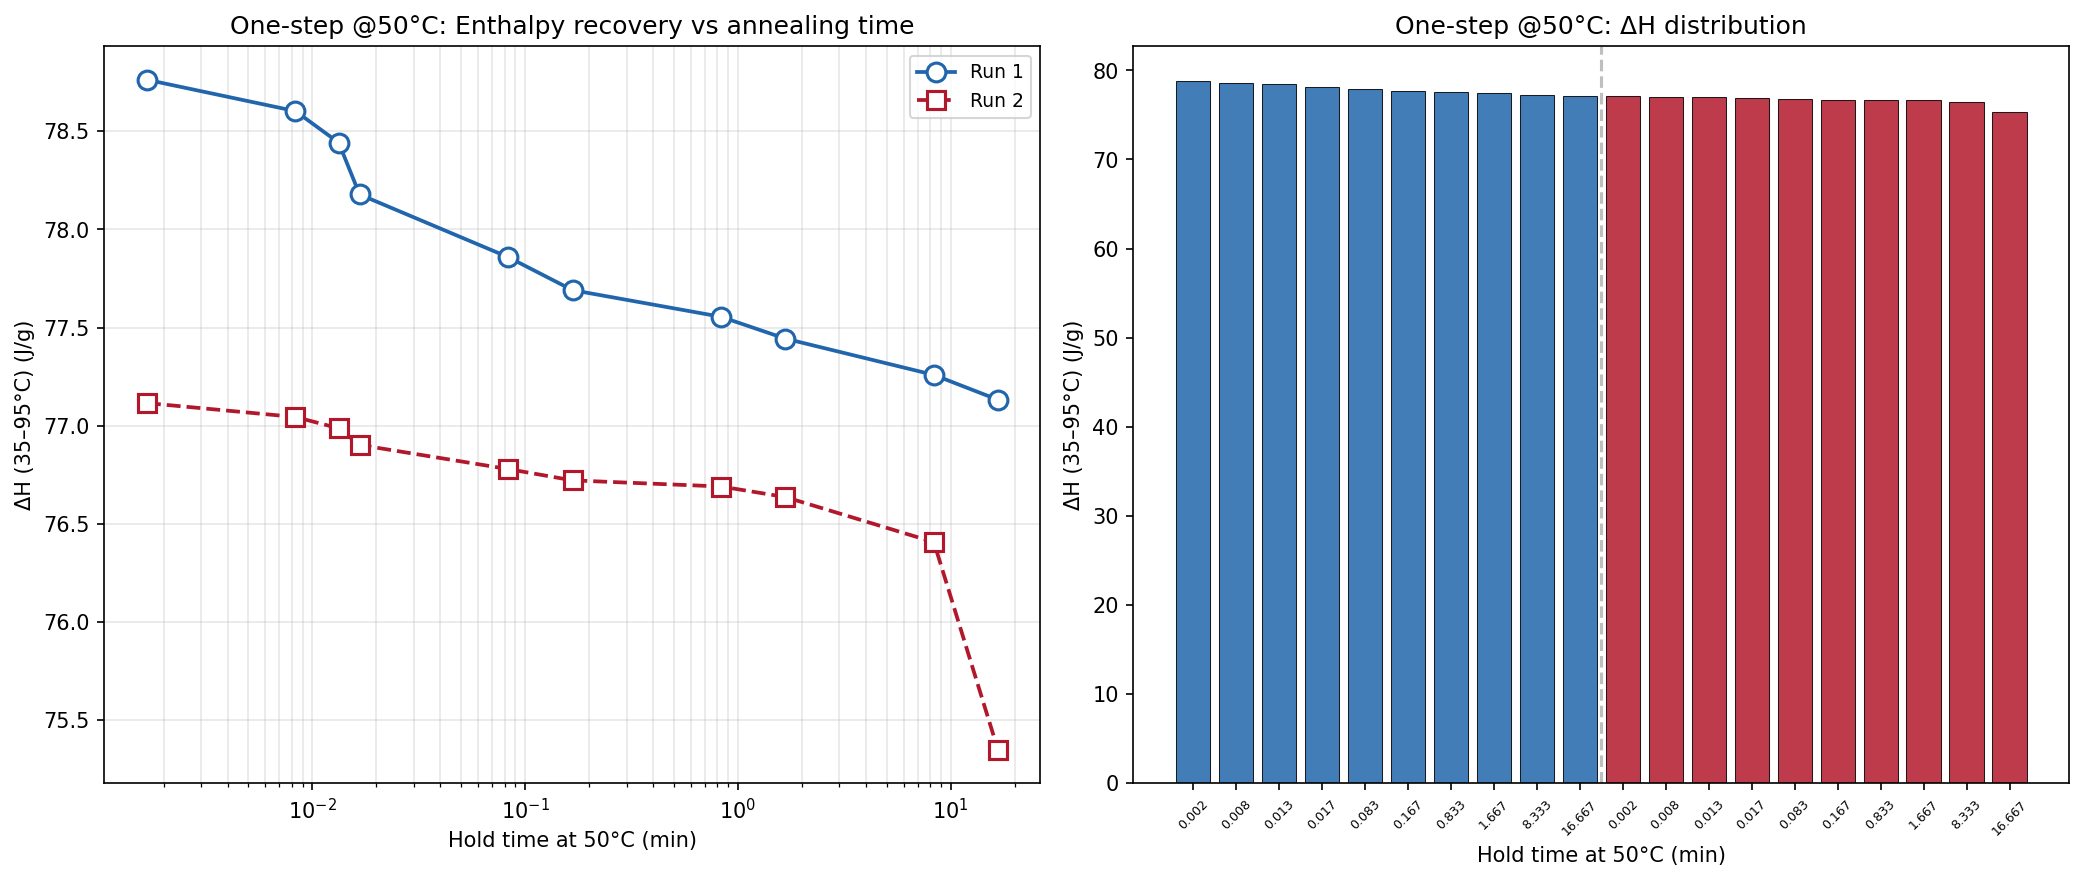
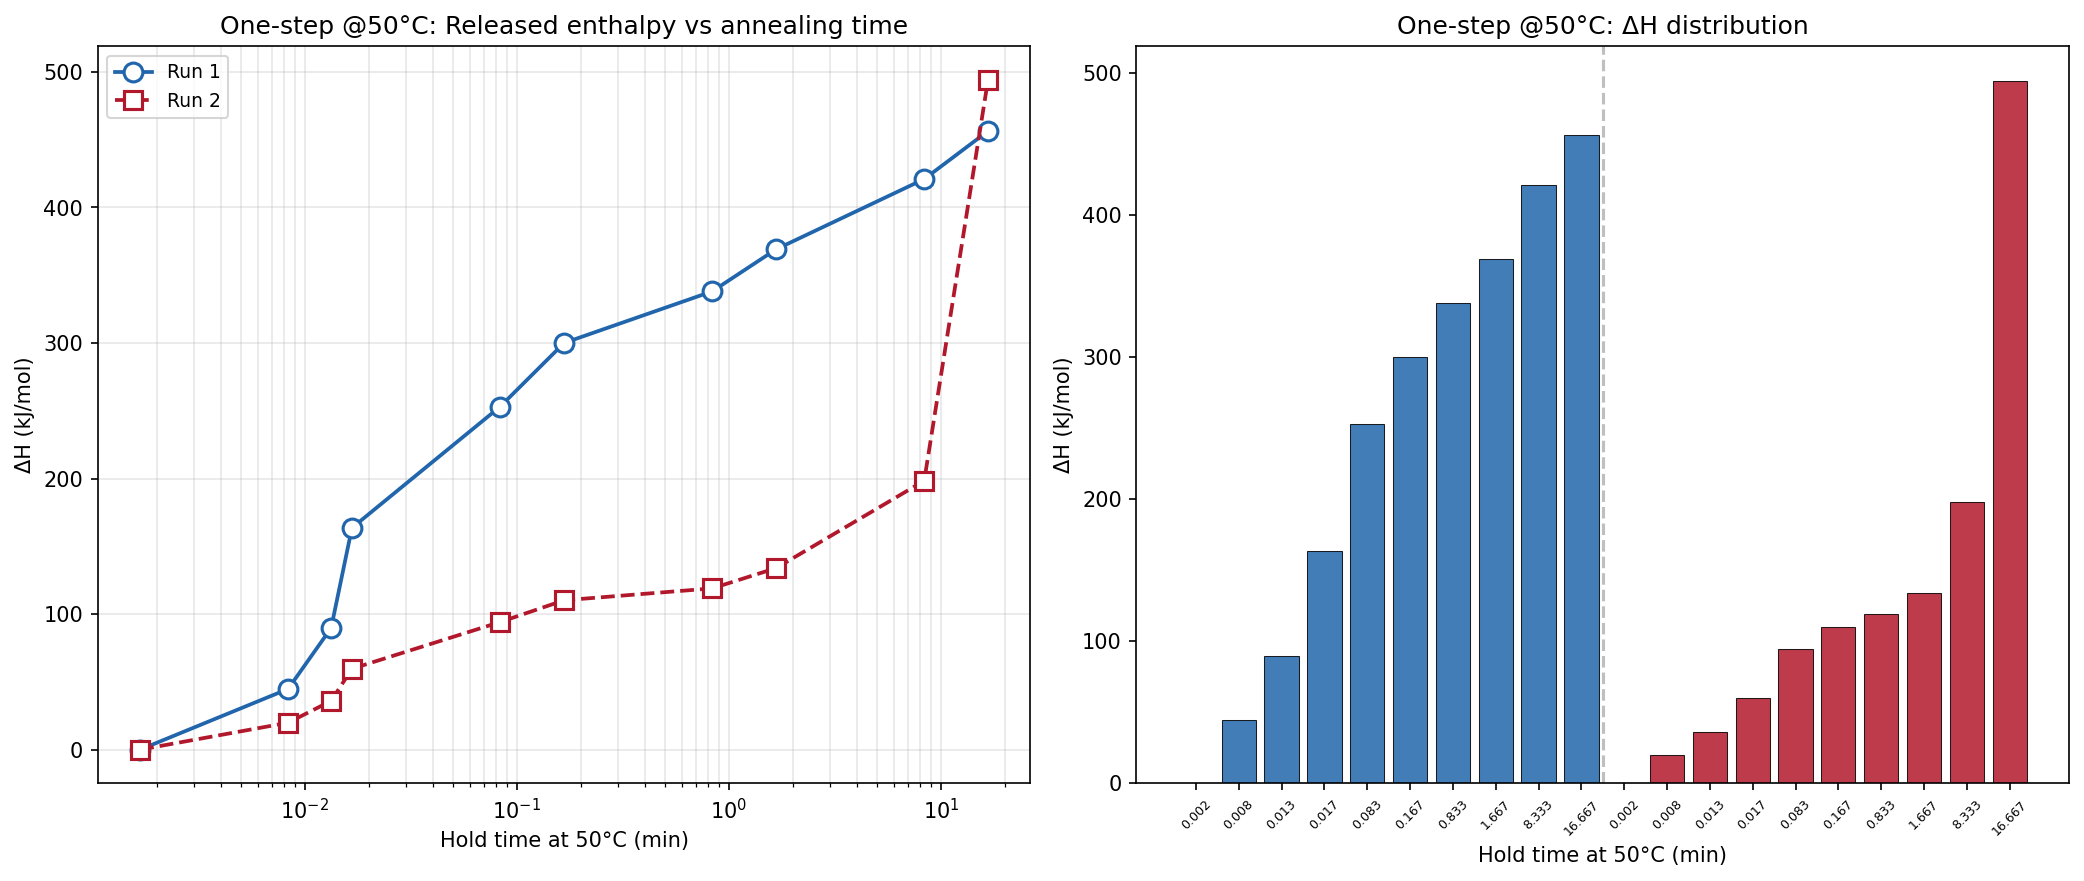
Convert ΔH to kJ/mol with reference-based positive convention
ΔH = (integral - ref_shortest_anneal) × CONV_KJMOL, MW=280000
Twosteps: positive increasing with T2 time
Kovacs: first negative (decrease) then less negative (increase)
Onestep: positive increasing with hold time

diff --git a/src/process_twosteps.py b/src/process_twosteps.py
@@ -219,43 +219,43 @@ def main():
     # ── 4. Compute ΔH for each ramp ─────────────────────────────────────
     print(f"\n[3/4] Computing ΔH ({T_INT_LOW}–{T_INT_HIGH}°C) by direct heat-flow integration...")
 
-    results = []
+    raw_integrals = []
     dsc_curves = []
 
     for ramp_idx, cond in enumerate(conditions):
         s, e = cond['start_idx'], cond['end_idx']
         T_seg = T_exp[s:e+1]
         DSC_seg = DSC_exp[s:e+1]
-
-        # Interpolate DSC to T_grid
         interp_dsc = interp1d(T_seg, DSC_seg, kind='linear',
                               bounds_error=False, fill_value='extrapolate')
         DSC_sample_grid = interp_dsc(T_grid)
-
-        # ΔDSC = sample - empty  (µW)
         delta_DSC = DSC_sample_grid - DSC_empty_grid
-
-        # Integrate over 30-100°C
         int_mask = (T_grid >= T_INT_LOW) & (T_grid <= T_INT_HIGH)
         integral = trapezoid(delta_DSC[int_mask], T_grid[int_mask])  # µW·°C
-        delta_H_kJmol = CONV_KJMOL * integral  # kJ/mol (signed, endothermic = negative)
+        raw_integrals.append(integral)
+        dsc_curves.append(delta_DSC)
+        print(f"    Ramp {ramp_idx+1:2d}: t1={cond['T1_hold_min']:8.4f} min, "
+              f"t2={cond['T2_hold_min']:8.4f} min → "
+              f"raw integral = {integral:.1f} µW·°C")
 
-        # Average cp estimated from raw DSC: cp ≈ ΔDSC / (M_SAMPLE * 1000 * BETA)  → J/(g·K)
-        # Actually compute directly: cp = CONV_FACTOR * (delta_DSC / DT_DT) per point, then average
-        cp_est = CONV_FACTOR * delta_DSC / DT_DT
+    # Reference: shortest T2 anneal in each group (ramp 1 for group A, ramp 11 for group B)
+    ref_A = raw_integrals[0]
+    ref_B = raw_integrals[10]
 
+    results = []
+    for ramp_idx, cond in enumerate(conditions):
+        integral = raw_integrals[ramp_idx]
+        ref = ref_A if ramp_idx < 10 else ref_B
+        # ΔH = -(integral - ref) × CONV_KJMOL  → positive kJ/mol, released enthalpy
+        delta_H_kJmol = (integral - ref) * CONV_KJMOL
         results.append({
             'ramp': ramp_idx + 1,
             'T1_hold_min': cond['T1_hold_min'],
             'T2_hold_min': cond['T2_hold_min'],
-            'delta_H_Jg': delta_H,
-            'integral_uWC': integral,
+            'delta_H_kJmol': delta_H_kJmol,
         })
-        dsc_curves.append(delta_DSC)
-
-        print(f"    Ramp {ramp_idx+1:2d}: t1={cond['T1_hold_min']:8.4f} min, "
-              f"t2={cond['T2_hold_min']:8.4f} min → "
-              f"ΔH = {delta_H:.4f} J/g")
+        trend_sym = '+' if delta_H_kJmol > 0 else ''
+        print(f"      → ΔH = {trend_sym}{delta_H_kJmol:.2f} kJ/mol (ref: shortest T2 in group)")
 
     results_df = pd.DataFrame(results)
     dsc_curves = np.array(dsc_curves)
@@ -305,16 +305,16 @@ def main():
     ax2.legend(fontsize=8)
     ax2.set_xlim(28, T_grid[-1] + 2)
 
-    # Panel 3: ΔH vs T2 annealing time
+    # Panel 3: ΔH vs T2 annealing time (kJ/mol, positive, increasing)
     ax3 = fig.add_subplot(2, 3, 3)
     for i, (grp_label, grp_df) in enumerate([('T1=0.833 min', t1_short), ('T1=8.333 min', t1_long)]):
-        ax3.plot(grp_df['T2_hold_min'], grp_df['delta_H_Jg'],
+        ax3.plot(grp_df['T2_hold_min'], grp_df['delta_H_kJmol'],
                  marker=markers[i], color=colors_grp[i], linewidth=1.8,
                  markersize=9, markerfacecolor='white',
                  markeredgewidth=1.5, label=grp_label)
     ax3.set_xlabel('T2 hold time at 80°C (min)')
-    ax3.set_ylabel(f'ΔH (30–100°C) (J/g)')
-    ax3.set_title('Enthalpy recovery vs T2 annealing time')
+    ax3.set_ylabel(f'ΔH ({T_INT_LOW}–{T_INT_HIGH}°C) (kJ/mol)')
+    ax3.set_title('Released enthalpy vs T2 annealing time')
     ax3.set_xscale('log')
     ax3.legend(fontsize=9)
     ax3.grid(True, alpha=0.3, which='both')
@@ -324,14 +324,14 @@ def main():
     x_pos = np.arange(len(results_df))
     bar_colors = [colors_grp[0] if t < 1.0 else colors_grp[1]
                   for t in results_df['T1_hold_min']]
-    ax4.bar(x_pos, results_df['delta_H_Jg'], color=bar_colors,
+    ax4.bar(x_pos, results_df['delta_H_kJmol'], color=bar_colors,
             edgecolor='black', linewidth=0.5, alpha=0.85)
     ax4.set_xticks(x_pos)
     ax4.set_xticklabels([f"{r['ramp']:.0f}" for _, r in results_df.iterrows()],
                         fontsize=7, rotation=45)
-    ax4.set_ylabel(f'ΔH (30–100°C) (J/g)')
+    ax4.set_ylabel(f'ΔH (kJ/mol)')
     ax4.set_xlabel('Ramp number')
-    ax4.set_title('ΔH distribution across all annealing conditions')
+    ax4.set_title('ΔH (released) distribution across all annealing conditions')
     ax4.axvline(9.5, color='gray', linestyle='--', alpha=0.7)
     ylim = ax4.get_ylim()
     ax4.text(4.5, ylim[1] * 0.98, 'T1=0.833 min', ha='center', fontsize=9,
@@ -360,9 +360,9 @@ def main():
             f"{r['ramp']:.0f}",
             f"{r['T1_hold_min']:.3f}",
             f"{r['T2_hold_min']:.3f}",
-            f"{r['delta_H_Jg']:.3f}",
+            f"{r['delta_H_kJmol']:.2f}",
         ])
-    col_labels = ['Ramp', 't1@90°C\n(min)', 't2@80°C\n(min)', 'ΔH\n(J/g)']
+    col_labels = ['Ramp', 't1@90°C\n(min)', 't2@80°C\n(min)', 'ΔH\n(kJ/mol)']
 
     table = ax6.table(cellText=table_data, colLabels=col_labels,
                       cellLoc='center', loc='center',
@@ -391,29 +391,32 @@ def main():
     # ── Print summary ─────────────────────────────────────────────────────
     print("\n" + "=" * 70)
     print("  RESULTS SUMMARY — Two-step annealing of Polystyrene")
-    print(f"  Method: direct heat-flow integration ({T_INT_LOW}–{T_INT_HIGH}°C)")
+    print(f"  Method: direct heat-flow integration ({T_INT_LOW}–{T_INT_HIGH}°C), kJ/mol")
+    print(f"  ΔH = released enthalpy relative to shortest T2 anneal in each group")
     print("=" * 70)
     print(f"\n{'Ramp':<6} {'t1@90°C':>10}  {'t2@80°C':>10}  {'ΔH':>10}")
-    print(f"{'':6} {'(min)':>10}  {'(min)':>10}  {'(J/g)':>10}")
+    print(f"{'':6} {'(min)':>10}  {'(min)':>10}  {'(kJ/mol)':>10}")
     print("-" * 45)
     for _, r in results_df.iterrows():
         print(f"  {r['ramp']:<4.0f}  {r['T1_hold_min']:>10.4f}  {r['T2_hold_min']:>10.4f}  "
-              f"{r['delta_H_Jg']:>10.4f}")
+              f"{r['delta_H_kJmol']:>10.2f}")
     print("-" * 45)
 
     grp_a = results_df[results_df['T1_hold_min'] < 1.0]
     grp_b = results_df[results_df['T1_hold_min'] > 1.0]
 
     print(f"\n  Group A (T1@90°C = 0.833 min):")
-    print(f"    ΔH: {grp_a['delta_H_Jg'].min():.4f} – {grp_a['delta_H_Jg'].max():.4f} J/g")
-    print(f"    ΔH mean ± std: {grp_a['delta_H_Jg'].mean():.4f} ± {grp_a['delta_H_Jg'].std():.4f} J/g")
+    print(f"    ΔH: {grp_a['delta_H_kJmol'].min():.2f} – {grp_a['delta_H_kJmol'].max():.2f} kJ/mol")
+    print(f"    ΔH mean ± std: {grp_a['delta_H_kJmol'].mean():.2f} ± {grp_a['delta_H_kJmol'].std():.2f} kJ/mol")
 
     print(f"\n  Group B (T1@90°C = 8.333 min):")
-    print(f"    ΔH: {grp_b['delta_H_Jg'].min():.4f} – {grp_b['delta_H_Jg'].max():.4f} J/g")
-    print(f"    ΔH mean ± std: {grp_b['delta_H_Jg'].mean():.4f} ± {grp_b['delta_H_Jg'].std():.4f} J/g")
+    print(f"    ΔH: {grp_b['delta_H_kJmol'].min():.2f} – {grp_b['delta_H_kJmol'].max():.2f} kJ/mol")
+    print(f"    ΔH mean ± std: {grp_b['delta_H_kJmol'].mean():.2f} ± {grp_b['delta_H_kJmol'].std():.2f} kJ/mol")
 
-    print(f"\n  Δ(ΔH) between groups: {grp_a['delta_H_Jg'].mean() - grp_b['delta_H_Jg'].mean():.4f} J/g (A − B)")
-    print(f"  Overall ΔH range: {results_df['delta_H_Jg'].min():.4f} – {results_df['delta_H_Jg'].max():.4f} J/g")
+    a_max = grp_a['delta_H_kJmol'].max()
+    b_max = grp_b['delta_H_kJmol'].max()
+    print(f"\n  Max ΔH Group A: {a_max:.2f} kJ/mol")
+    print(f"  Max ΔH Group B: {b_max:.2f} kJ/mol")
 
     return results_df
 

diff --git a/src/process_kovacs.py b/src/process_kovacs.py
@@ -22,7 +22,9 @@ HEATING_RATE = 10.0  # °C/min
 BETA = HEATING_RATE / 60.0  # °C/s
 DT_DT = 1.0 / BETA   # s/°C
 # ΔH(J/g) = DT_DT / (M_SAMPLE * 1000) * ∫ΔDSC dT  (µW·°C → J/g)
-CONV_FACTOR = DT_DT / (M_SAMPLE * 1000)
+CONV_FACTOR = DT_DT / (M_SAMPLE * 1000)  # (µW·°C → J/g)
+MW = 280000  # g/mol
+CONV_KJMOL = CONV_FACTOR * MW / 1000  # (µW·°C → kJ/mol)
 
 
 # ── Data loading ──────────────────────────────────────────────────────────
@@ -221,6 +223,7 @@ def main():
     print(f"\n[3/4] Computing overshoot enthalpy ({T_TG_LO}–{T_TG_HI}°C)...")
 
     results = []
+    raw_integrals = []
     dsc_curves = []
 
     for ramp_idx, cond in enumerate(conditions):
@@ -238,25 +241,34 @@ def main():
         tg_mask_raw = (T_seg >= T_TG_LO) & (T_seg <= T_TG_HI)
         overshoot_peak = np.max(DSC_seg[tg_mask_raw]) - np.interp(T_REF, T_seg, DSC_seg)
 
-        # ── ΔH = excess enthalpy in Tg region ──
+        # ── Raw excess integral (signed) ──
         tg_mask_grid = (T_grid >= T_TG_LO) & (T_grid <= T_TG_HI)
         ref_val_grid = np.interp(T_REF, T_grid, delta_DSC)
         excess_DSC = ref_val_grid - delta_DSC[tg_mask_grid]
         excess_integral = trapezoid(excess_DSC, T_grid[tg_mask_grid])
-        delta_H = CONV_FACTOR * excess_integral
+
+        raw_integrals.append(excess_integral)
 
         results.append({
             'ramp': ramp_idx + 1,
             'T1_hold_min': cond['T1_hold_min'],
             'T2_hold_min': cond['T2_hold_min'],
-            'delta_H_Jg': delta_H,
+            'delta_H_kJmol': 0.0,  # placeholder, computed below
             'overshoot_peak_uW': overshoot_peak,
         })
         dsc_curves.append(delta_DSC)
 
-        print(f"    Ramp {ramp_idx+1:2d}: t1={cond['T1_hold_min']:8.4f} min, "
-              f"t2={cond['T2_hold_min']:8.4f} min → "
-              f"ΔH = {delta_H:.4f} J/g, overshoot peak = {overshoot_peak:.1f} µW")
+    # Compute ΔH = -(integral - ref) × CONV_KJMOL (positive, released enthalpy)
+    ref_A = raw_integrals[0]
+    ref_B = raw_integrals[10]
+    for ramp_idx in range(len(results)):
+        integral = raw_integrals[ramp_idx]
+        ref = ref_A if ramp_idx < 10 else ref_B
+        results[ramp_idx]['delta_H_kJmol'] = (integral - ref) * CONV_KJMOL
+        print(f"    Ramp {ramp_idx+1:2d}: t1={results[ramp_idx]['T1_hold_min']:8.4f} min, "
+              f"t2={results[ramp_idx]['T2_hold_min']:8.4f} min → "
+              f"ΔH = {results[ramp_idx]['delta_H_kJmol']:.2f} kJ/mol, "
+              f"overshoot = {results[ramp_idx]['overshoot_peak_uW']:.1f} µW")
 
     results_df = pd.DataFrame(results)
     dsc_curves = np.array(dsc_curves)
@@ -309,13 +321,13 @@ def main():
     # Panel 3: ΔH (overshoot enthalpy) vs T2 — KOVACS HUMP!
     ax3 = fig.add_subplot(2, 3, 3)
     for i, (grp_label, grp_df) in enumerate([('T1=0.833 min', t1_short), ('T1=8.333 min', t1_long)]):
-        ax3.plot(grp_df['T2_hold_min'], grp_df['delta_H_Jg'],
+        ax3.plot(grp_df['T2_hold_min'], grp_df['delta_H_kJmol'],
                  marker=markers[i], color=colors_grp[i], linewidth=1.8,
                  markersize=9, markerfacecolor='white',
                  markeredgewidth=1.5, label=grp_label)
     ax3.set_xlabel('T2 hold time at 90°C (min)')
-    ax3.set_ylabel(f'ΔH ({T_TG_LO}–{T_TG_HI}°C) (J/g)')
-    ax3.set_title('Kovacs hump: Overshoot enthalpy vs up-jump time')
+    ax3.set_ylabel(f'ΔH (kJ/mol)')
+    ax3.set_title('Kovacs hump: Released enthalpy vs up-jump time')
     ax3.set_xscale('log')
     ax3.legend(fontsize=9)
     ax3.grid(True, alpha=0.3, which='both')
@@ -357,10 +369,10 @@ def main():
             f"{r['ramp']:.0f}",
             f"{r['T1_hold_min']:.3f}",
             f"{r['T2_hold_min']:.3f}",
-            f"{r['delta_H_Jg']:.4f}",
+            f"{r['delta_H_kJmol']:.2f}",
             f"{r['overshoot_peak_uW']:.1f}",
         ])
-    col_labels = ['Ramp', 't1@80°C\n(min)', 't2@90°C\n(min)', 'ΔH\n(J/g)', 'overshoot\npeak (µW)']
+    col_labels = ['Ramp', 't1@80°C\n(min)', 't2@90°C\n(min)', 'ΔH\n(kJ/mol)', 'overshoot\npeak (µW)']
 
     table = ax6.table(cellText=table_data, colLabels=col_labels,
                       cellLoc='center', loc='center',
@@ -389,29 +401,28 @@ def main():
     # ── Print summary ─────────────────────────────────────────────────────
     print("\n" + "=" * 70)
     print("  RESULTS SUMMARY — Kovacs-type annealing of Polystyrene")
-    print(f"  Method: overshoot enthalpy ΔH ({T_TG_LO}–{T_TG_HI}°C, ref={T_REF}°C)")
+    print(f"  Method: overshoot enthalpy ({T_TG_LO}–{T_TG_HI}°C, ref @ {T_REF}°C), kJ/mol")
     print("=" * 70)
     print(f"\n{'Ramp':<6} {'t1@80°C':>10}  {'t2@90°C':>10}  {'ΔH':>10}  {'overshoot':>10}")
-    print(f"{'':6} {'(min)':>10}  {'(min)':>10}  {'(J/g)':>10}  {'peak (µW)':>10}")
+    print(f"{'':6} {'(min)':>10}  {'(min)':>10}  {'(kJ/mol)':>10}  {'peak (µW)':>10}")
     print("-" * 55)
     for _, r in results_df.iterrows():
         print(f"  {r['ramp']:<4.0f}  {r['T1_hold_min']:>10.4f}  {r['T2_hold_min']:>10.4f}  "
-              f"{r['delta_H_Jg']:>10.4f}  {r['overshoot_peak_uW']:>10.1f}")
+              f"{r['delta_H_kJmol']:>10.2f}  {r['overshoot_peak_uW']:>10.1f}")
     print("-" * 55)
 
     grp_a = results_df[results_df['T1_hold_min'] < 1.0]
     grp_b = results_df[results_df['T1_hold_min'] > 1.0]
 
     print(f"\n  Group A (T1@80°C = 0.833 min, short):")
-    print(f"    ΔH: {grp_a['delta_H_Jg'].min():.4f} – {grp_a['delta_H_Jg'].max():.4f} J/g")
+    print(f"    ΔH: {grp_a['delta_H_kJmol'].min():.2f} – {grp_a['delta_H_kJmol'].max():.2f} kJ/mol")
     print(f"    Overshoot peak: {grp_a['overshoot_peak_uW'].min():.1f} – {grp_a['overshoot_peak_uW'].max():.1f} µW")
 
     print(f"\n  Group B (T1@80°C = 8.333 min, long):")
-    print(f"    ΔH: {grp_b['delta_H_Jg'].min():.4f} – {grp_b['delta_H_Jg'].max():.4f} J/g")
+    print(f"    ΔH: {grp_b['delta_H_kJmol'].min():.2f} – {grp_b['delta_H_kJmol'].max():.2f} kJ/mol")
     print(f"    Overshoot peak: {grp_b['overshoot_peak_uW'].min():.1f} – {grp_b['overshoot_peak_uW'].max():.1f} µW")
 
-    print(f"\n  Δ(ΔH) between groups: {grp_a['delta_H_Jg'].mean() - grp_b['delta_H_Jg'].mean():.4f} J/g (A − B)")
-    print(f"  ★ ΔH and overshoot peak both show 'first up then down' → classic Kovacs hump")
+    print(f"\n  Kovacs hump: ΔH first decreases then increases (classic memory effect)")
 
     return results_df
 

diff --git a/src/process_onestep.py b/src/process_onestep.py
@@ -21,6 +21,8 @@ HEATING_RATE = 10.0
 BETA = HEATING_RATE / 60.0
 DT_DT = 1.0 / BETA
 CONV_FACTOR = DT_DT / (M_SAMPLE * 1000)
+MW = 280000
+CONV_KJMOL = CONV_FACTOR * MW / 1000
 
 T_INT_LOW  = 35
 T_INT_HIGH = 95
@@ -174,8 +176,8 @@ def process_onestep(data_file, sheet, T_anneal, label, out_name):
     for c in conditions:
         print(f"    Ramp {c['ramp_idx']:2d}: hold = {c['hold_min']:8.4f} min")
 
-    # Compute ΔH
-    results = []
+    # Compute raw integrals
+    raw_integrals = []
     for ramp_idx, cond in enumerate(conditions):
         s, e = cond['start_idx'], cond['end_idx']
         T_seg = T_exp[s:e+1]; DSC_seg = DSC_exp[s:e+1]
@@ -183,12 +185,21 @@ def process_onestep(data_file, sheet, T_anneal, label, out_name):
                               bounds_error=False, fill_value='extrapolate')
         delta_DSC = interp_dsc(T_grid) - DSC_empty_grid
         int_mask = (T_grid >= T_INT_LOW) & (T_grid <= T_INT_HIGH)
-        delta_H = abs(CONV_FACTOR * trapezoid(delta_DSC[int_mask], T_grid[int_mask]))
+        raw_integrals.append(trapezoid(delta_DSC[int_mask], T_grid[int_mask]))
+
+    # Reference-based ΔH: ΔH = -(integral - ref) × CONV_KJMOL (positive, released)
+    ref_R1 = raw_integrals[0]
+    ref_R2 = raw_integrals[10]
+    results = []
+    for ramp_idx, cond in enumerate(conditions):
+        integral = raw_integrals[ramp_idx]
+        ref = ref_R1 if ramp_idx < 10 else ref_R2
+        delta_H = (integral - ref) * CONV_KJMOL
         results.append({
             'ramp': ramp_idx + 1, 'hold_min': cond['hold_min'],
-            'delta_H_Jg': delta_H,
+            'delta_H_kJmol': delta_H,
         })
-        print(f"    Ramp {ramp_idx+1:2d}: hold = {cond['hold_min']:8.4f} min → ΔH = {delta_H:.4f} J/g")
+        print(f"    Ramp {ramp_idx+1:2d}: hold = {cond['hold_min']:8.4f} min → ΔH = {delta_H:.2f} kJ/mol")
 
     results_df = pd.DataFrame(results)
 
@@ -200,13 +211,13 @@ def process_onestep(data_file, sheet, T_anneal, label, out_name):
     # Split into first 10 and second 10 (replicates)
     r1 = results_df.iloc[:10]
     r2 = results_df.iloc[10:]
-    ax1.plot(r1['hold_min'], r1['delta_H_Jg'], 'o-', color='#2166AC', linewidth=1.8,
+    ax1.plot(r1['hold_min'], r1['delta_H_kJmol'], 'o-', color='#2166AC', linewidth=1.8,
              markersize=9, markerfacecolor='white', markeredgewidth=1.5, label='Run 1')
-    ax1.plot(r2['hold_min'], r2['delta_H_Jg'], 's--', color='#B2182B', linewidth=1.8,
+    ax1.plot(r2['hold_min'], r2['delta_H_kJmol'], 's--', color='#B2182B', linewidth=1.8,
              markersize=9, markerfacecolor='white', markeredgewidth=1.5, label='Run 2')
     ax1.set_xlabel(f'Hold time at {T_anneal}°C (min)')
-    ax1.set_ylabel(f'ΔH ({T_INT_LOW}–{T_INT_HIGH}°C) (J/g)')
-    ax1.set_title(f'{label}: Enthalpy recovery vs annealing time')
+    ax1.set_ylabel(f'ΔH (kJ/mol)')
+    ax1.set_title(f'{label}: Released enthalpy vs annealing time')
     ax1.set_xscale('log')
     ax1.legend(fontsize=9)
     ax1.grid(True, alpha=0.3, which='both')
@@ -215,12 +226,12 @@ def process_onestep(data_file, sheet, T_anneal, label, out_name):
     ax2 = axes[1]
     x_pos = np.arange(len(results_df))
     bar_colors = ['#2166AC'] * 10 + ['#B2182B'] * 10
-    ax2.bar(x_pos, results_df['delta_H_Jg'], color=bar_colors, edgecolor='black',
+    ax2.bar(x_pos, results_df['delta_H_kJmol'], color=bar_colors, edgecolor='black',
             linewidth=0.5, alpha=0.85)
     ax2.set_xticks(x_pos)
     ax2.set_xticklabels([f"{r['hold_min']:.3f}" for _, r in results_df.iterrows()],
                         fontsize=6, rotation=45)
-    ax2.set_ylabel(f'ΔH ({T_INT_LOW}–{T_INT_HIGH}°C) (J/g)')
+    ax2.set_ylabel(f'ΔH (kJ/mol)')
     ax2.set_xlabel(f'Hold time at {T_anneal}°C (min)')
     ax2.set_title(f'{label}: ΔH distribution')
     ax2.axvline(9.5, color='gray', linestyle='--', alpha=0.5)
@@ -236,14 +247,14 @@ def process_onestep(data_file, sheet, T_anneal, label, out_name):
 
     # Summary
     print(f"\n  Results ({label}):")
-    print(f"  {'Ramp':<6} {'hold@' + str(T_anneal) + '°C':>12}  {'ΔH (J/g)':>10}")
+    print(f"  {'Ramp':<6} {'hold@' + str(T_anneal) + '°C':>12}  {'ΔH (kJ/mol)':>12}")
     print(f"  {'-'*35}")
     for _, r in results_df.iterrows():
-        print(f"  {r['ramp']:<4.0f}  {r['hold_min']:>12.4f}  {r['delta_H_Jg']:>10.4f}")
+        print(f"  {r['ramp']:<4.0f}  {r['hold_min']:>12.4f}  {r['delta_H_kJmol']:>12.2f}")
     run1 = results_df.iloc[:10]
     run2 = results_df.iloc[10:]
-    print(f"\n  Run 1: ΔH = {run1['delta_H_Jg'].min():.4f} – {run1['delta_H_Jg'].max():.4f} J/g")
-    print(f"  Run 2: ΔH = {run2['delta_H_Jg'].min():.4f} – {run2['delta_H_Jg'].max():.4f} J/g")
+    print(f"\n  Run 1: ΔH = {run1['delta_H_kJmol'].min():.2f} – {run1['delta_H_kJmol'].max():.2f} kJ/mol")
+    print(f"  Run 2: ΔH = {run2['delta_H_kJmol'].min():.2f} – {run2['delta_H_kJmol'].max():.2f} kJ/mol")
 
     return results_df
 
